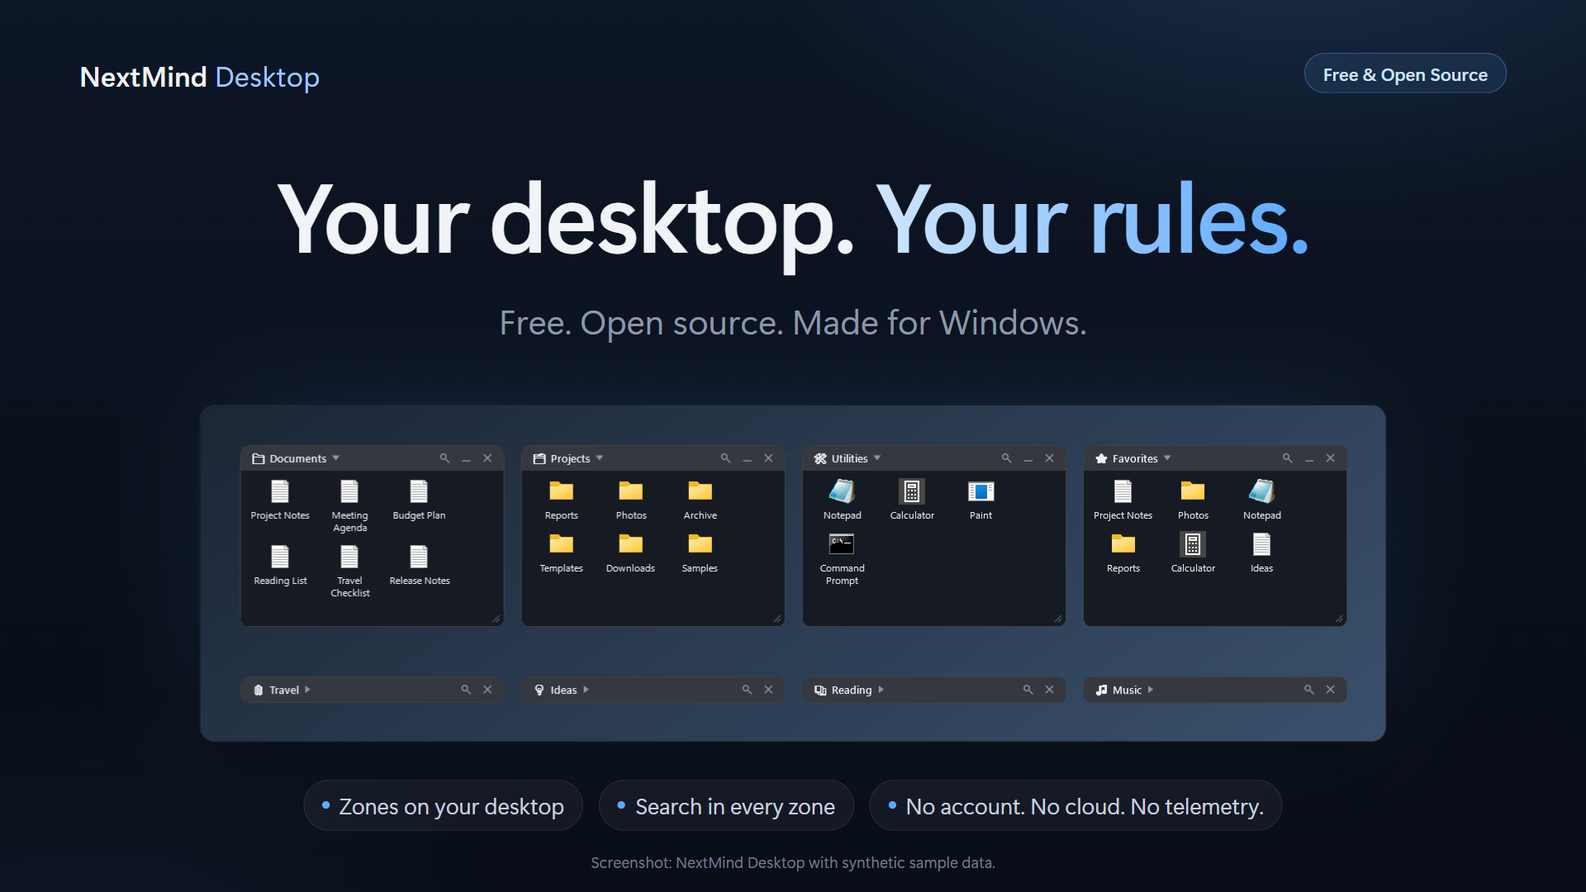
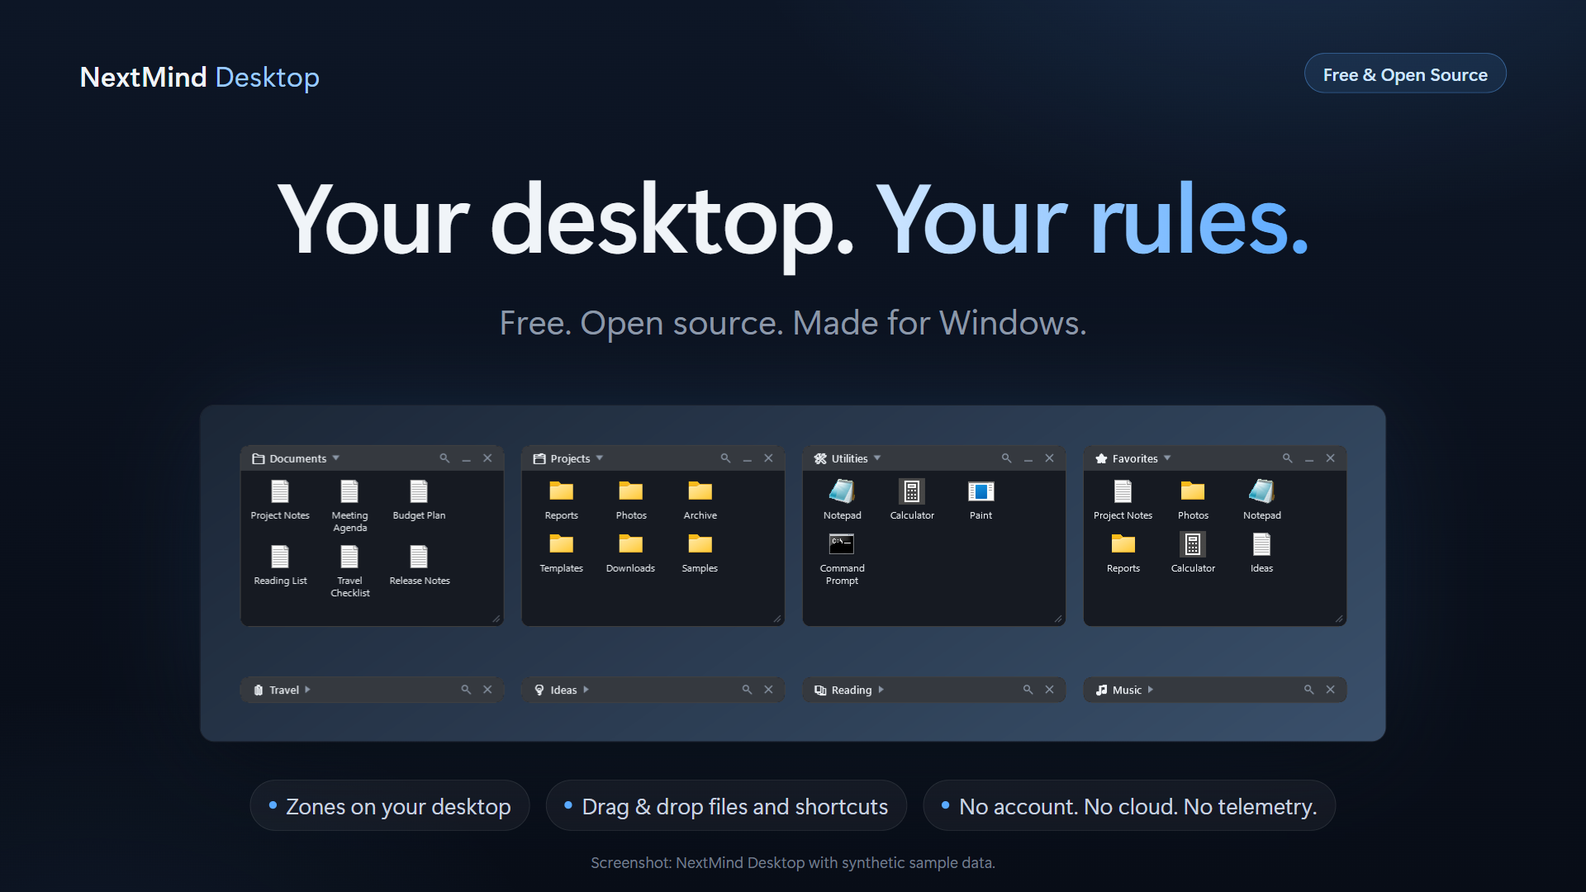
README as a product page: hero, short pitch, published v0.1.0 vs coming v0.2.0, install
- Top: centered hero graphic, name, "Your desktop. Your rules.", one-line description, badges, quick links
  (download v0.1.0, what is coming, user guide, changelog) and a caption saying the screenshot shows the
  interface being prepared for v0.2.0 and that search is NOT in the published v0.1.0
- "Why NextMind Desktop": a short pitch
- "Available now: v0.1.0": what the published release does
- "Coming in v0.2.0": clearly marked as in preparation and not in the download; search image and the v0.2
  features (search, free-spot placement and snapping, smarter expanding, tidy menus, bottom-edge fix)
- "Quick start & install (v0.1.0)": download, extract, run, SmartScreen and checksum, autostart, uninstall with the
  warning that ManagedItems can hold the user's own files
- Kept unchanged in substance: How it works, Managed Desktop Moves / Safety, known limitations, requirements,
  build from source, development, contributing, security, license
- Only two marketing images are used (hero, search); the rest stay in marketing/
- The detailed guide moves to docs/USER-GUIDE.md (zones, search, menus, tray, Control Center)
- hero graphic: the third chip now reads "Drag & drop files and shortcuts" (true for v0.1.0 and v0.2.0)
  instead of "Search in every zone"
- RELEASE-CHECKLIST: README/user guide/marketing steps for release day; marketing readme-showcase marked as
  superseded
[…]

Changed region(s): [[0.1562, 0.8861, 0.8438, 0.9167]]

diff --git a/marketing/src/hero.html b/marketing/src/hero.html
@@ -17,7 +17,7 @@
 
   <div class="abs" style="left:0;right:0;top:944px;text-align:center;font-size:27px">
     <span class="chip"><i></i>Zones on your desktop</span>&nbsp;&nbsp;
-    <span class="chip"><i></i>Search in every zone</span>&nbsp;&nbsp;
+    <span class="chip"><i></i>Drag &amp; drop files and shortcuts</span>&nbsp;&nbsp;
     <span class="chip"><i></i>No account. No cloud. No telemetry.</span>
   </div>
   <div class="abs note" style="left:0;right:0;top:1030px;text-align:center;font-size:19px">Screenshot: NextMind Desktop with synthetic sample data.</div>

diff --git a/README.md b/README.md
@@ -1,32 +1,74 @@
-# NextMind Desktop
+<p align="center">
+  <img src="marketing/images/hero.png" alt="NextMind Desktop: zones with files, folders and shortcuts on a dark background; headline: Your desktop. Your rules." width="900">
+</p>
 
-**A lightweight, local-first desktop organizer for Windows.**
+<h1 align="center">NextMind Desktop</h1>
 
-[![Latest release](https://img.shields.io/github/v/release/NextMindHQ/nextmind-desktop?label=release)](https://github.com/NextMindHQ/nextmind-desktop/releases/latest)
-[![Platform: Windows x64](https://img.shields.io/badge/platform-Windows%20x64-0078D6)](#requirements)
-[![License: Apache-2.0](https://img.shields.io/github/license/NextMindHQ/nextmind-desktop)](LICENSE)
-[![CI](https://github.com/NextMindHQ/nextmind-desktop/actions/workflows/ci.yml/badge.svg)](https://github.com/NextMindHQ/nextmind-desktop/actions/workflows/ci.yml)
+<p align="center">
+  <b>Your desktop. Your rules.</b><br>
+  A free, open-source desktop organizer for Windows.
+</p>
 
-NextMind Desktop puts collapsible **Zones** directly on your Windows desktop — above the wallpaper and icons, below every
-application — so you can group shortcuts, files and folders without opening another window. It is a small tray application:
-no account, no cloud, no telemetry.
+<p align="center">
+  <a href="https://github.com/NextMindHQ/nextmind-desktop/releases/latest"><img alt="Latest release" src="https://img.shields.io/github/v/release/NextMindHQ/nextmind-desktop?label=release"></a>
+  <a href="#requirements"><img alt="Platform: Windows x64" src="https://img.shields.io/badge/platform-Windows%20x64-0078D6"></a>
+  <a href="LICENSE"><img alt="License: Apache-2.0" src="https://img.shields.io/github/license/NextMindHQ/nextmind-desktop"></a>
+  <a href="https://github.com/NextMindHQ/nextmind-desktop/actions/workflows/ci.yml"><img alt="CI" src="https://github.com/NextMindHQ/nextmind-desktop/actions/workflows/ci.yml/badge.svg"></a>
+</p>
 
-**[⬇ Download the latest release](https://github.com/NextMindHQ/nextmind-desktop/releases/latest)**
+<p align="center">
+  <a href="https://github.com/NextMindHQ/nextmind-desktop/releases/latest"><b>⬇ Download v0.1.0</b></a> &nbsp;·&nbsp;
+  <a href="#coming-in-v020">What is coming in v0.2.0</a> &nbsp;·&nbsp;
+  <a href="docs/USER-GUIDE.md">User guide</a> &nbsp;·&nbsp;
+  <a href="CHANGELOG.md">Changelog</a>
+</p>
 
-![NextMind Desktop: expanded and collapsed zones](docs/images/hero.png)
+<p align="center"><sub>The screenshot shows the interface being prepared for v0.2.0 — note the magnifier in each title bar: search is <b>not</b> in the published v0.1.0.<br>
+Synthetic sample data; screenshots never show a real desktop (<a href="docs/SCREENSHOT-PLAN.md">how they are made</a>).</sub></p>
 
-<sub>Zones on a neutral backdrop with synthetic sample data (screenshots never show a real desktop — see [docs/SCREENSHOT-PLAN.md](docs/SCREENSHOT-PLAN.md)).</sub>
+## Why NextMind Desktop
 
-## Download / Quick Start
+The Windows desktop quickly turns into a pile of icons. NextMind Desktop gives it structure: you create named **zones** right on the desktop — above the wallpaper
+and icons, below your applications — drop files, folders and shortcuts into them, collapse the ones you do not need, and carry on.
+
+You decide the layout: no grid, no automatic arranging. It is a small, quiet tray application with **no account, no cloud and no telemetry**.
+
+## Available now: v0.1.0
+
+The current public release ([download](https://github.com/NextMindHQ/nextmind-desktop/releases/latest)) includes:
+
+* **Desktop Zones** — named panels that live on the desktop itself, under your windows and over the icons
+* **Collapse / expand** a zone to just its title (double-click the title bar); **move and resize** it freely, it stays within the visible monitor area
+* **Drag & drop** files, folders and shortcuts from Explorer or the Desktop; the original is never touched
+* **Sorting and manual ordering** — drag to reorder, or sort per zone by name, date added or type
+* **Native Windows icons**, a **tray icon and Control Center**, and **Start with Windows**
+* **Show desktop (Win+D)** reveals your zones; application windows cover them
+* **Persistence** — positions, sizes, collapsed state, items and sort order survive restarts
+* **Managed Desktop Moves** — *opt-in, off by default*; see [Safety](#managed-desktop-moves--safety)
+
+## Coming in v0.2.0
+
+> **In preparation, not released.** v0.2.0 is being prepared and is not published yet. Everything in this section is **not** in the download above.
+> See the [changelog](CHANGELOG.md) for the full list.
+
+<p align="center">
+  <img src="marketing/images/search.png" alt="Search in a zone: the word list typed in a zone leaves two matching items; keys: arrows select, Enter opens, Esc clears" width="760">
+</p>
+
+* **Search in every zone** — a magnifier in each title bar filters that zone's items as you type (names of files, folders and shortcuts; ignores case and Polish letters).
+  **↓ / ↑** select, **Enter** opens, **Esc** clears. Searching never changes your zone or your files.
+* **A layout that is yours, with some help** — new zones appear in a free spot; edges snap to neighbours while you drag (hold **Alt** to move freely); overlapping on purpose still works.
+* **Smarter expanding** — a zone opens downward, or upward when that covers fewer other zones or would leave the screen. Other zones are never moved.
+* **Menus that stay out of the way** — context menus and the *Sort by* / *Move to Zone* submenus open where they cover the least of neighbouring zones, and they close when you click elsewhere.
+* **Fix:** a zone collapsed near the bottom edge of the screen no longer creeps upward at every start.
+
+## Quick start & install (v0.1.0)
 
 1. Download **`NextMind-Desktop-v0.1.0-win-x64.zip`** from the [latest release](https://github.com/NextMindHQ/nextmind-desktop/releases/latest).
 2. Extract it to a folder you want to keep (the app registers that location for *Start with Windows*).
 3. Run **`NextMindDesktop.exe`**.
 
-A first Zone appears on your desktop and a tray icon is added. Drop files, folders or shortcuts onto the Zone.
-
-> **Note:** features marked **(v0.2)** below are in development and will ship with the next release. The download linked above is v0.1.0
-> and does not include them yet. See the [changelog](CHANGELOG.md).
+A first Zone appears on your desktop and a tray icon is added. Drop files, folders or shortcuts onto the Zone. More in the [user guide](docs/USER-GUIDE.md).
 
 * **Self-contained:** v0.1.0 includes everything it needs. **You do not need to install .NET.**
 * **Not code-signed yet:** Windows SmartScreen may warn about an unrecognized app. If you trust the download, choose *More info* → *Run anyway*.
@@ -41,91 +83,6 @@ A first Zone appears on your desktop and a tray icon is added. Drop files, folde
 > Give them back first: use *Return to Desktop* in each item's menu, or *Delete Zone* → *Return items to Desktop and delete Zone*. Then open `ManagedItems` and make sure it is
 > empty or holds nothing you need. Only then delete the data folder (settings, logs and the journal). If you never enabled Managed Desktop Moves (the default), the folder holds only
 > settings and logs and can be removed after you exit the app.
-
-## Features
-
-* **Desktop Zones** — named panels that live on the desktop itself, under your windows and over the icons
-* **You decide the layout** — no grid and no automatic arranging: drag zones anywhere, overlap them if you like. New zones appear in a free spot **(v0.2)**
-  and edges snap to neighbours while you drag (hold **Alt** to move freely) **(v0.2)**
-* **Collapse / expand** — double-click the title bar (a collapsed zone is just its title). A zone opens downward, or upward when that covers fewer
-  other zones or would leave the screen; other zones are never moved **(v0.2)**
-* **Move and resize** — drag the title bar, resize from the edges and corner grip; zones stay within the visible monitor area
-* **Search in a zone** — a magnifier in every zone filters its items as you type (names of files, folders and shortcuts; ignores case and Polish letters) **(v0.2)**
-* **Drag & drop** — drop files, folders and shortcuts from Explorer or the Desktop onto a Zone
-* **Sorting and manual ordering** — drag to reorder, or sort per zone by name, date added or type
-* **Show desktop (Win+D)** — zones are part of the desktop layer, so *Show desktop* reveals them; application windows cover them
-* **Tidy menus** — context menus and their submenus open where they cover the least of neighbouring zones, and close when you click elsewhere **(v0.2)**
-* **Native Windows icons** — the same icons Explorer shows
-* **Start with Windows** — toggled from the tray menu
-* **Tray icon and Control Center** — create, show/hide and manage zones
-* **Persistence** — positions, sizes, collapsed state, items and sort order survive restarts
-* **Local-first** — no account, no cloud, no telemetry; the source contains no networking code
-* **Managed Desktop Moves** — *opt-in, off by default*; see [below](#managed-desktop-moves--safety)
-
-## Using Zones
-
-### Create and arrange zones
-
-* **Create a zone:** right-click the tray icon → **Create Zone**, or use the Control Center (double-click the tray icon). Give it any name, emoji included.
-  A new zone appears in a free spot on the desktop **(v0.2)**.
-* **Place it where you want:** drag the title bar. There is no grid and nothing is arranged for you. While you drag, edges snap to neighbouring zones and to
-  the screen edge **(v0.2)**; hold **Alt** to move without snapping. You may overlap zones on purpose. Positions are saved automatically and come back after a restart.
-* **Resize** from the right and bottom edges or the corner grip.
-* **Rename, hide or delete:** right-click the title bar (*Rename Zone*, *Hide Zone*, *Delete Zone*). Deleting a zone never deletes your files.
-
-### Collapse and expand
-
-Double-click the title bar, click the ▼ / ▶ arrow, or use the **—** button to collapse a zone to its title; it stays exactly where you left it, also after a restart.
-Expanding opens the zone downward — or upward when that would cover other zones or leave the screen **(v0.2)**. Other zones are never moved, and collapsing a zone
-that opened upward puts its title bar back where it was.
-
-![An expanded zone with its items](docs/images/expanded.png)
-
-![Collapsed zones: just the title bar, the magnifier and the close button](docs/images/collapsed.png)
-
-### Add items
-
-Drag files, folders and shortcuts onto a zone from Explorer or the Desktop (see [How it works](#how-it-works)). Double-click an item to open it; right-click it for
-*Open*, *Show in Explorer*, *Move to Zone* and *Remove from Zone* (which only forgets the path).
-Drag items inside a zone to reorder them, drag them onto another zone to move them there, or sort a zone from its title-bar menu (*Sort by* name, date added or type).
-
-### Search in a zone **(v0.2)**
-
-Click the magnifier in the zone's title bar (on a collapsed zone it expands first). Type to filter **that zone's** items as you type; clear the box to see them all again.
-
-![Search in a zone: typing "list" leaves the two matching items](docs/images/search.png)
-
-* Matches the names of files, folders and shortcuts, **ignoring case and diacritics** (`lodz` finds *Łódź*); with several words, every word must match.
-* The zone's own order is kept. Searching never changes the zone, your files or their order.
-* If nothing matches you see *No matches for …*.
-
-| Key | Action |
-|---|---|
-| **↓ / ↑** | Select the next / previous result |
-| **Enter** | Open the selected result (or the first match) |
-| **Esc** | Clear the text; press again to close the search bar |
-| **✕** in the field | Clear the text |
-| Click the magnifier again | Close the search bar |
-
-While a filter is active, dragging items to reorder them is switched off; dropping something on the zone shows the whole list again first.
-Zones are normally not "active" windows, so they never take the keyboard from your applications — the search box takes it only while you are typing and
-gives it back when you close the bar, collapse the zone or switch to another window.
-
-### Show desktop (Win+D)
-
-Zones are part of the desktop layer: they sit above the wallpaper and icons but **below every application window**. *Show desktop* (**Win+D**) or minimizing windows
-reveals them; opening an application covers them again. They never float over your applications.
-
-### Menus
-
-Right-click a title bar or an item. Menus and the *Sort by* / *Move to Zone* submenus open where they cover the least of neighbouring zones and stay on screen **(v0.2)**;
-they close when you click elsewhere, switch to another application or press Alt+Tab **(v0.2)**.
-
-### Tray icon and Control Center
-
-The tray icon (right-click) offers **Open NextMind Desktop** (the Control Center), **Show / Hide Zones**, **Create Zone**, **Start with Windows** and **Exit**.
-Double-click the icon to open the Control Center: it lists all zones with **Hide / Show** and **Rename** for each, **Create Zone**, the *Start with Windows* checkbox,
-**Hide All Zones** / **Show All Zones**, and the current state of the Managed Desktop Moves safety gate. *Exit* closes the app now; it does not change *Start with Windows*.
 
 ## How it works
 
@@ -170,9 +127,9 @@ Full details: [docs/THREAT-AND-DATA-SAFETY.md](docs/THREAT-AND-DATA-SAFETY.md).
 * Managed storage lives under `%LOCALAPPDATA%`; a tool that cleans AppData could remove it. Keep this in mind before enabling managed moves.
 * Keeping a Zone above the desktop icons relies on undocumented Windows behaviour. There is a visible fallback, but a future Windows update could change it.
 * Scanning very large folders for reparse points is bounded; when a scan is truncated the app always asks.
-* Search matches names only (not file contents or parent folders) and works inside one zone at a time; there is no global search yet.
 * Very large zones (hundreds to 2000 items) take a few seconds to load at start and use noticeably more memory.
 * Managing many zones (for example 30 or more) is not comfortable yet; a zone list with find-and-jump in the Control Center is planned.
+* Search (v0.2.0) matches names only — not file contents or parent folders — and works inside one zone at a time; there is no global search yet.
 * No Settings window yet. Windows x64 only. The executable is not code-signed.
 
 ## Requirements
@@ -214,11 +171,12 @@ src/NextMind.Desktop.Core    config (versioned, atomic save, recovery), guarded 
 src/NextMind.Desktop.Shell   Win32 interop: desktop layer, tray, message window, single instance, monitors, known folders, icons
 src/NextMind.Desktop.App     WPF app: zone windows, zone manager, Control Center
 tests/NextMind.Desktop.Tests xUnit; filesystem tests run only inside guarded temp directories
-docs/                        architecture, safety model, manual test scenarios
-tools/                       start / stop / autostart helper scripts, icon generator
+docs/                        architecture, safety model, user guide, manual test scenarios
+tools/                       start / stop / autostart helper scripts, isolated test instance, icon generator
+marketing/                   presentation graphics and copy (not part of the app)
 ```
 
-Further reading: [docs/ARCHITECTURE.md](docs/ARCHITECTURE.md), [docs/THREAT-AND-DATA-SAFETY.md](docs/THREAT-AND-DATA-SAFETY.md),
+Further reading: [docs/USER-GUIDE.md](docs/USER-GUIDE.md), [docs/ARCHITECTURE.md](docs/ARCHITECTURE.md), [docs/THREAT-AND-DATA-SAFETY.md](docs/THREAT-AND-DATA-SAFETY.md),
 [docs/MANUAL-TEST.md](docs/MANUAL-TEST.md), [docs/DEVELOPMENT.md](docs/DEVELOPMENT.md), [docs/RELEASE-CHECKLIST.md](docs/RELEASE-CHECKLIST.md),
 [CHANGELOG.md](CHANGELOG.md).
 

diff --git a/docs/USER-GUIDE.md b/docs/USER-GUIDE.md
@@ -1,0 +1,75 @@
+# NextMind Desktop: user guide
+
+How to use zones, search, menus, the tray icon and the Control Center. For installation, safety and uninstalling, see the [README](../README.md).
+
+> Features marked **(v0.2)** are in preparation for the next release and are **not** in the published v0.1.0. See the [changelog](../CHANGELOG.md).
+
+## Create and arrange zones
+
+* **Create a zone:** right-click the tray icon → **Create Zone**, or use the Control Center (double-click the tray icon). Give it any name, emoji included.
+  A new zone appears in a free spot on the desktop **(v0.2)**.
+* **Place it where you want:** drag the title bar. There is no grid and nothing is arranged for you. While you drag, edges snap to neighbouring zones and to
+  the screen edge **(v0.2)**; hold **Alt** to move without snapping. You may overlap zones on purpose. Positions are saved automatically and come back after a restart.
+* **Resize** from the right and bottom edges or the corner grip.
+* **Rename, hide or delete:** right-click the title bar (*Rename Zone*, *Hide Zone*, *Delete Zone*). Deleting a zone never deletes your files.
+
+## Collapse and expand
+
+Double-click the title bar, click the ▼ / ▶ arrow, or use the **—** button to collapse a zone to its title; it stays exactly where you left it, also after a restart **(v0.2)**.
+Expanding opens the zone downward — or upward when that would cover other zones or leave the screen **(v0.2)**. Other zones are never moved, and collapsing a zone
+that opened upward puts its title bar back where it was.
+
+![An expanded zone with its items](images/expanded.png)
+
+![Collapsed zones: just the title bar, the magnifier and the close button](images/collapsed.png)
+
+## Add items
+
+Drag files, folders and shortcuts onto a zone from Explorer or the Desktop (see [How it works](../README.md#how-it-works)). Double-click an item to open it; right-click it for
+*Open*, *Show in Explorer*, *Move to Zone* and *Remove from Zone* (which only forgets the path).
+Drag items inside a zone to reorder them, drag them onto another zone to move them there, or sort a zone from its title-bar menu (*Sort by* name, date added or type).
+
+## Search in a zone **(v0.2)**
+
+Click the magnifier in the zone's title bar (on a collapsed zone it expands first). Type to filter **that zone's** items as you type; clear the box to see them all again.
+
+![Search in a zone: typing "list" leaves the two matching items](images/search.png)
+
+* Matches the names of files, folders and shortcuts, **ignoring case and diacritics** (`lodz` finds *Łódź*); with several words, every word must match.
+* The zone's own order is kept. Searching never changes the zone, your files or their order.
+* If nothing matches you see *No matches for …*.
+
+| Key | Action |
+|---|---|
+| **↓ / ↑** | Select the next / previous result |
+| **Enter** | Open the selected result (or the first match) |
+| **Esc** | Clear the text; press again to close the search bar |
+| **✕** in the field | Clear the text |
+| Click the magnifier again | Close the search bar |
+
+While a filter is active, dragging items to reorder them is switched off; dropping something on the zone shows the whole list again first.
+Zones are normally not "active" windows, so they never take the keyboard from your applications — the search box takes it only while you are typing and
+gives it back when you close the bar, collapse the zone or switch to another window.
+
+## Show desktop (Win+D)
+
+Zones are part of the desktop layer: they sit above the wallpaper and icons but **below every application window**. *Show desktop* (**Win+D**) or minimizing windows
+reveals them; opening an application covers them again. They never float over your applications.
+
+## Menus
+
+Right-click a title bar or an item. Menus and the *Sort by* / *Move to Zone* submenus open where they cover the least of neighbouring zones and stay on screen **(v0.2)**;
+they close when you click elsewhere, switch to another application or press Alt+Tab **(v0.2)**.
+
+## Tray icon and Control Center
+
+The tray icon (right-click) offers **Open NextMind Desktop** (the Control Center), **Show / Hide Zones**, **Create Zone**, **Start with Windows** and **Exit**.
+Double-click the icon to open the Control Center: it lists all zones with **Hide / Show** and **Rename** for each, **Create Zone**, the *Start with Windows* checkbox,
+**Hide All Zones** / **Show All Zones**, and the current state of the Managed Desktop Moves safety gate. *Exit* closes the app now; it does not change *Start with Windows*.
+
+## Good to know
+
+* Search matches names only (not file contents or parent folders) and works inside one zone at a time; there is no global search yet.
+* Very large zones (hundreds to 2000 items) take a few seconds to load at start and use noticeably more memory.
+* Managing many zones (for example 30 or more) is not comfortable yet; a zone list with find-and-jump in the Control Center is planned.
+* Before you uninstall, read the warning about `ManagedItems` in the [README](../README.md#quick-start--install-v010).

diff --git a/docs/RELEASE-CHECKLIST.md b/docs/RELEASE-CHECKLIST.md
@@ -28,7 +28,9 @@ Run them with `tools\test-ui.ps1`; never against an installed copy or real files
 - [ ] Screenshots: only synthetic demo content, no wallpaper, desktop icons, taskbar, other applications or personal names; PNGs carry no text/metadata chunks
 
 ## 4. Documentation
-- [ ] README: features and "Using Zones" match the release; remove the "new in the next release" markers; download links and file names point to the new version
+- [ ] README: the *Available now* / *Coming in v0.2.0* sections become one feature list; replace the "download v0.1.0" links, file names and checksum text with the new version; update the hero caption (it says the screenshot shows an upcoming interface)
+- [ ] [User guide](USER-GUIDE.md): remove the "(v0.2)" markers and the introductory note; keep it in step with the release
+- [ ] [marketing/](../marketing/README.md): graphics and copy match the release; announcement posts are sent only after the release is published
 - [ ] CHANGELOG: move the *Unreleased* entries under the new version heading with its date; update the compare links
 - [ ] Screenshots current ([SCREENSHOT-PLAN.md](SCREENSHOT-PLAN.md))
 - [ ] Known limitations updated; contributing and development guides still accurate

diff --git a/marketing/copy/readme-showcase.md b/marketing/copy/readme-showcase.md
@@ -1,7 +1,8 @@
-# README showcase section: proposal
+# README showcase section: proposal (superseded)
 
-Not applied to the public README. If approved, this block replaces the current hero image and intro at the top of `README.md`
-(the rest of the README stays). Publish it together with the v0.2.0 release, because the images show the v0.2 interface.
+Status: **a v0.1.0-aware version of this idea was applied to `README.md`** (hero and search images, separate *Available now* and *Coming in v0.2.0* sections).
+The block below is the original, simpler proposal for the release day, when v0.2.0 is published and the two sections can be merged. Publish it together with
+the v0.2.0 release, because the images show the v0.2 interface.
 
 ---
 
